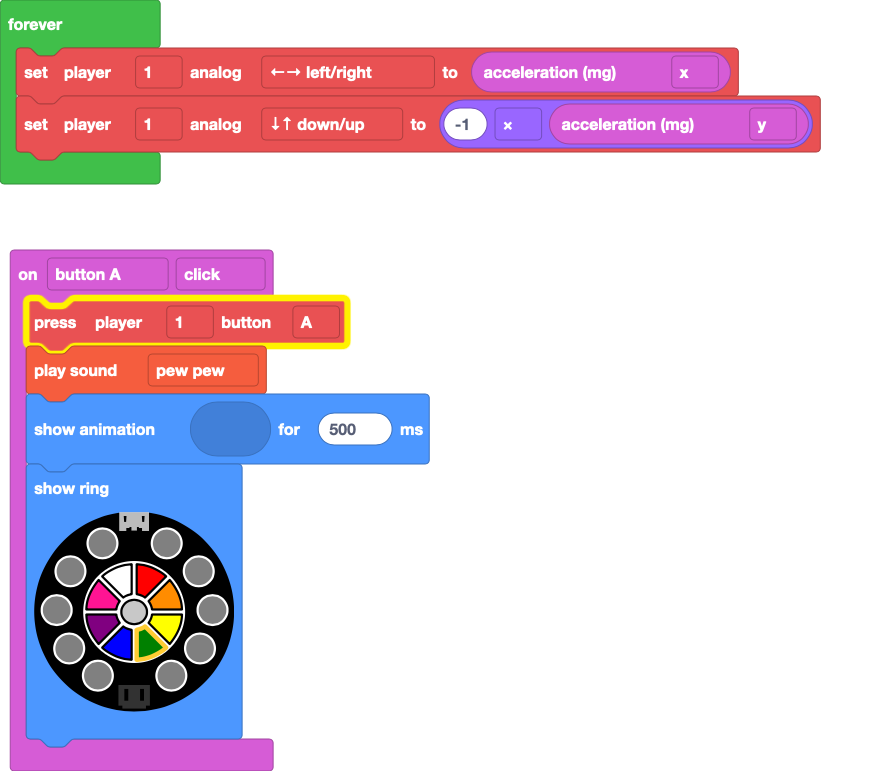
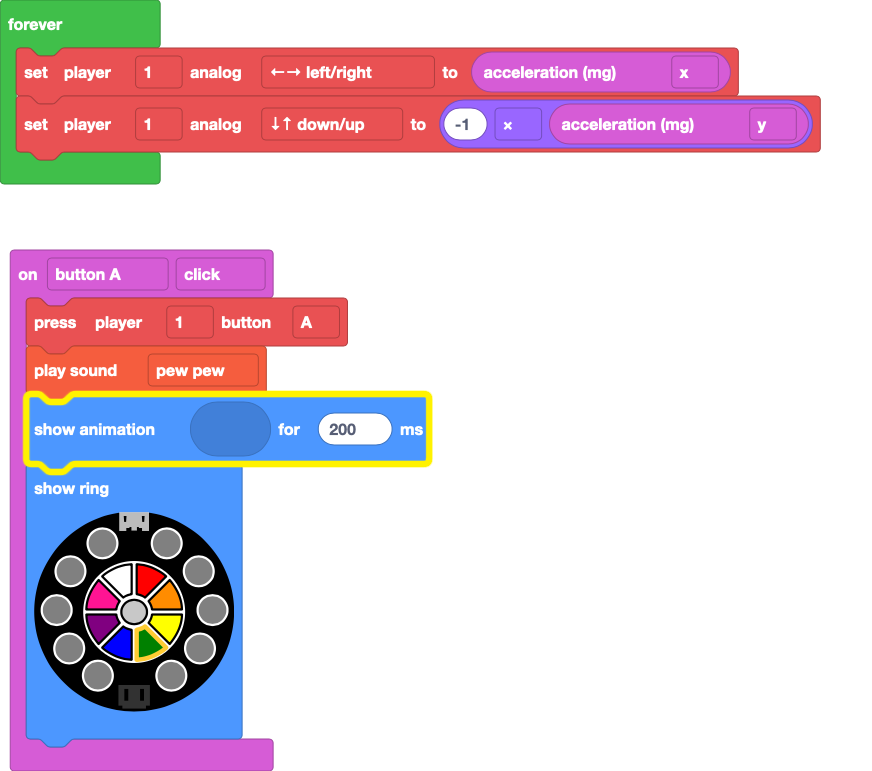
Update main.blocks, main.ts

Changed region(s): [[0.0, 0.4981, 0.4954, 0.6226], [0.0, 0.3735, 0.4025, 0.4669]]

diff --git a/main.ts b/main.ts
@@ -1,7 +1,7 @@
 input.buttonA.onEvent(ButtonEvent.Click, function () {
     makerController.player1.press(ArcadeButton.A)
     music.pewPew.play()
-    light.showAnimation(light.theaterChaseAnimation, 500)
+    light.showAnimation(light.theaterChaseAnimation, 200)
     light.showRing(
     `black black black black black black black black black black`
     )
